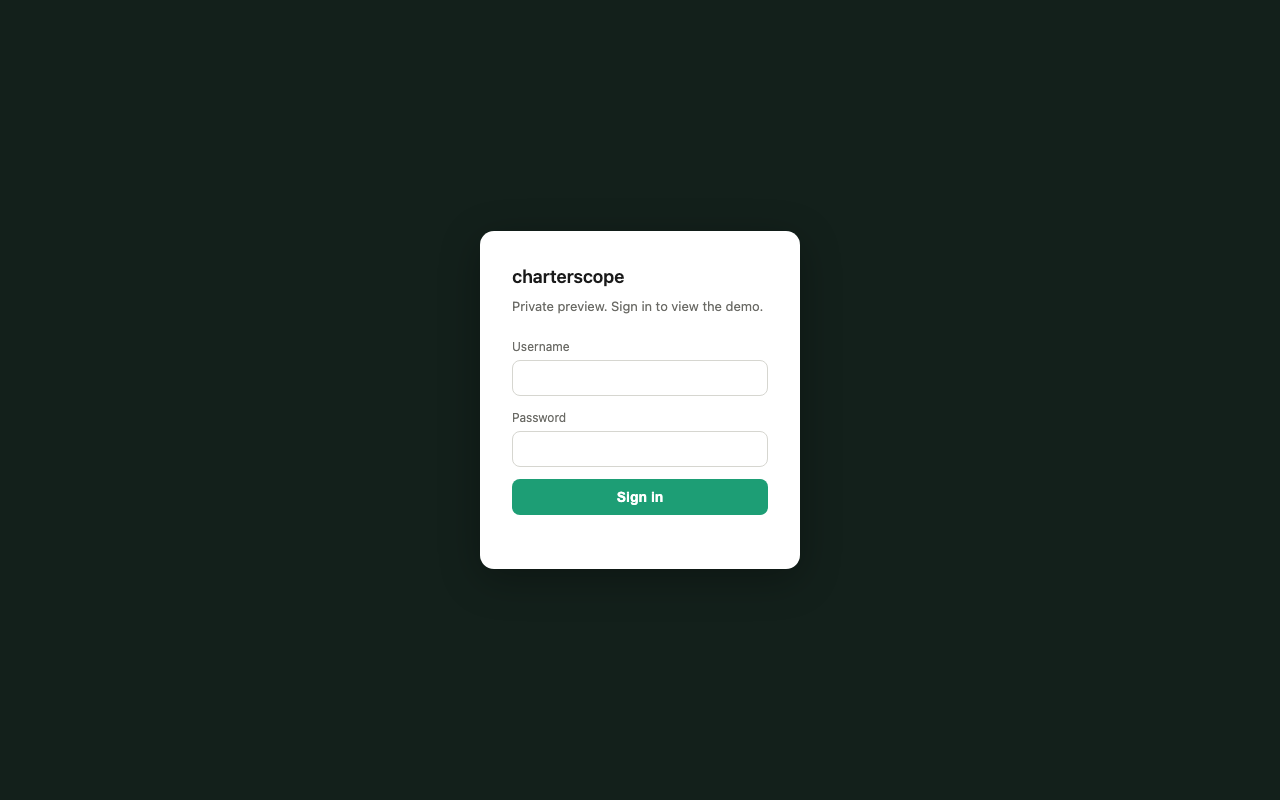
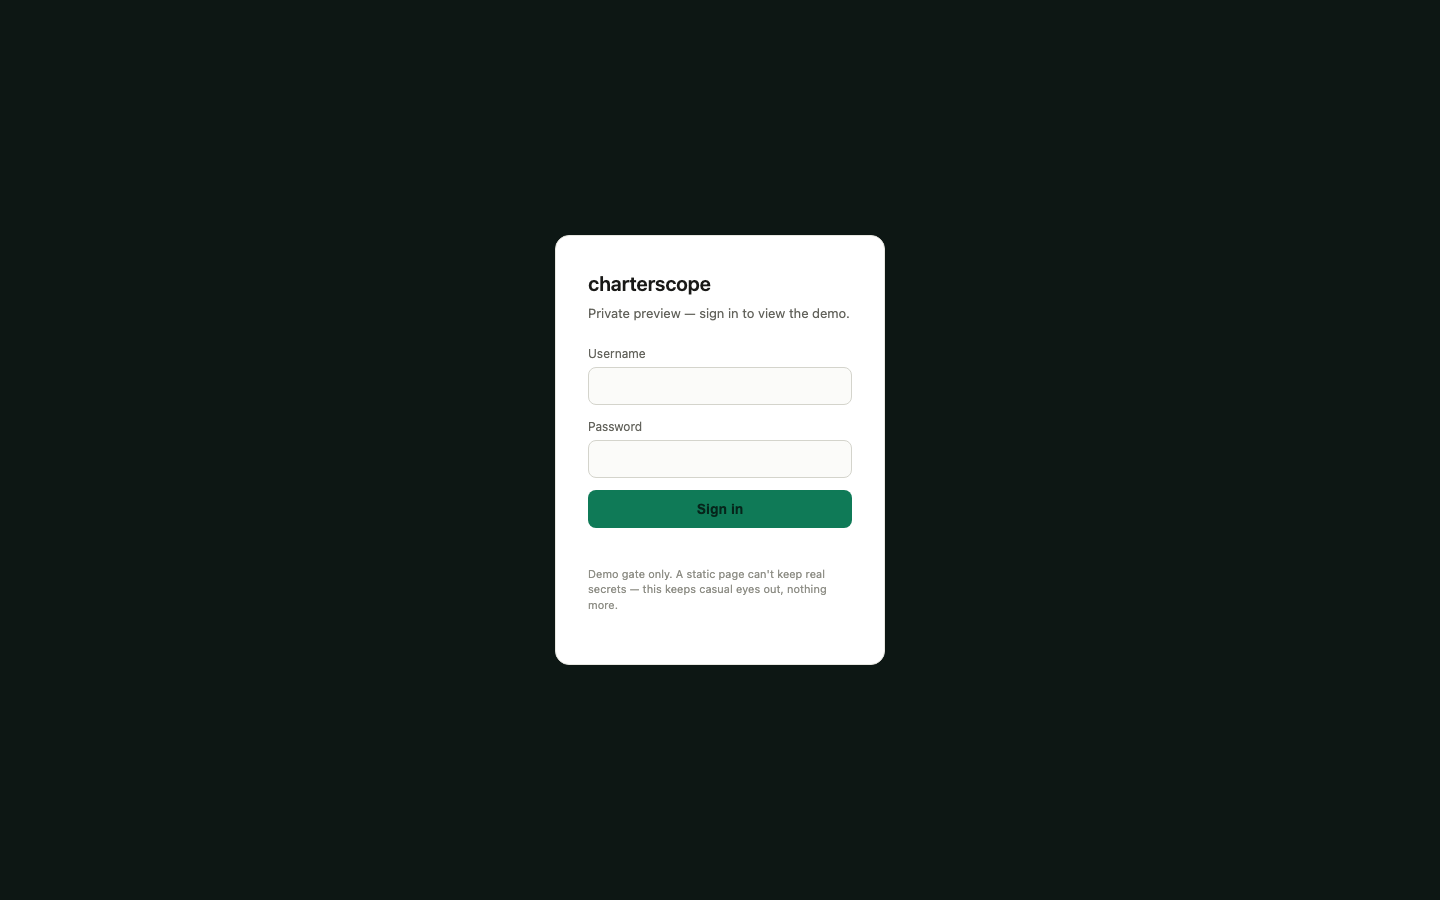
Real app screenshots + drop dead deploy links
- Capture fresh screenshots of the 8 live apps (RL_Tutorial, html, ros2, qnx,
  ghanemja.github.io now show real UI instead of placeholders; crochet,
  inbox-zero-board, charterscope are genuinely login-gated).
- 14 of the constructed GitHub Pages URLs 404 (Pages never enabled) — remove
  those dead links so books no longer point at a 404; they read "not deployed
  yet" with a placeholder instead of "private project".

Changed region(s): [[0.375, 0.25, 0.625, 0.75]]

diff --git a/main.js b/main.js
@@ -4,7 +4,7 @@ import { GLTFLoader } from 'three/addons/loaders/GLTFLoader.js';
 
 // cache-buster — bump on every asset change so the browser never serves a stale
 // GLB / JSON / image. (.glb especially caches hard across normal refreshes.)
-const ASSET_VERSION = 'v24';
+const ASSET_VERSION = 'v25';
 const bust = (url) => url + (url.includes('?') ? '&' : '?') + 'cb=' + ASSET_VERSION;
 
 // ─── config ──────────────────────────────────────────────────────────────────
@@ -351,13 +351,13 @@ function makePageTexture(repo) {
     ctx.fillStyle = '#fff8e8';
     ctx.font = `600 40px ${FONT}`;
     ctx.textAlign = 'center';
-    ctx.fillText(live ? 'visit live site  →' : 'private project', rx + btnW/2, btnY + 62);
+    ctx.fillText(live ? 'visit live site  →' : 'not deployed yet', rx + btnW/2, btnY + 62);
     ctx.textAlign = 'left';
 
     // secondary line
     ctx.fillStyle = '#8a7660';
     ctx.font = `500 26px ${FONT}`;
-    ctx.fillText(live ? 'opens the deployed app' : 'not publicly deployed', rx, btnY + btnH + 52);
+    ctx.fillText(live ? 'opens the deployed app' : 'no public deployment', rx, btnY + btnH + 52);
 
     ctx.fillStyle = '#a89880';
     ctx.font = `500 24px ${FONT}`;

diff --git a/index.html b/index.html
@@ -396,6 +396,6 @@
     }
   }
   </script>
-  <script type="module" src="./main.js?cb=v24"></script>
+  <script type="module" src="./main.js?cb=v25"></script>
 </body>
 </html>
